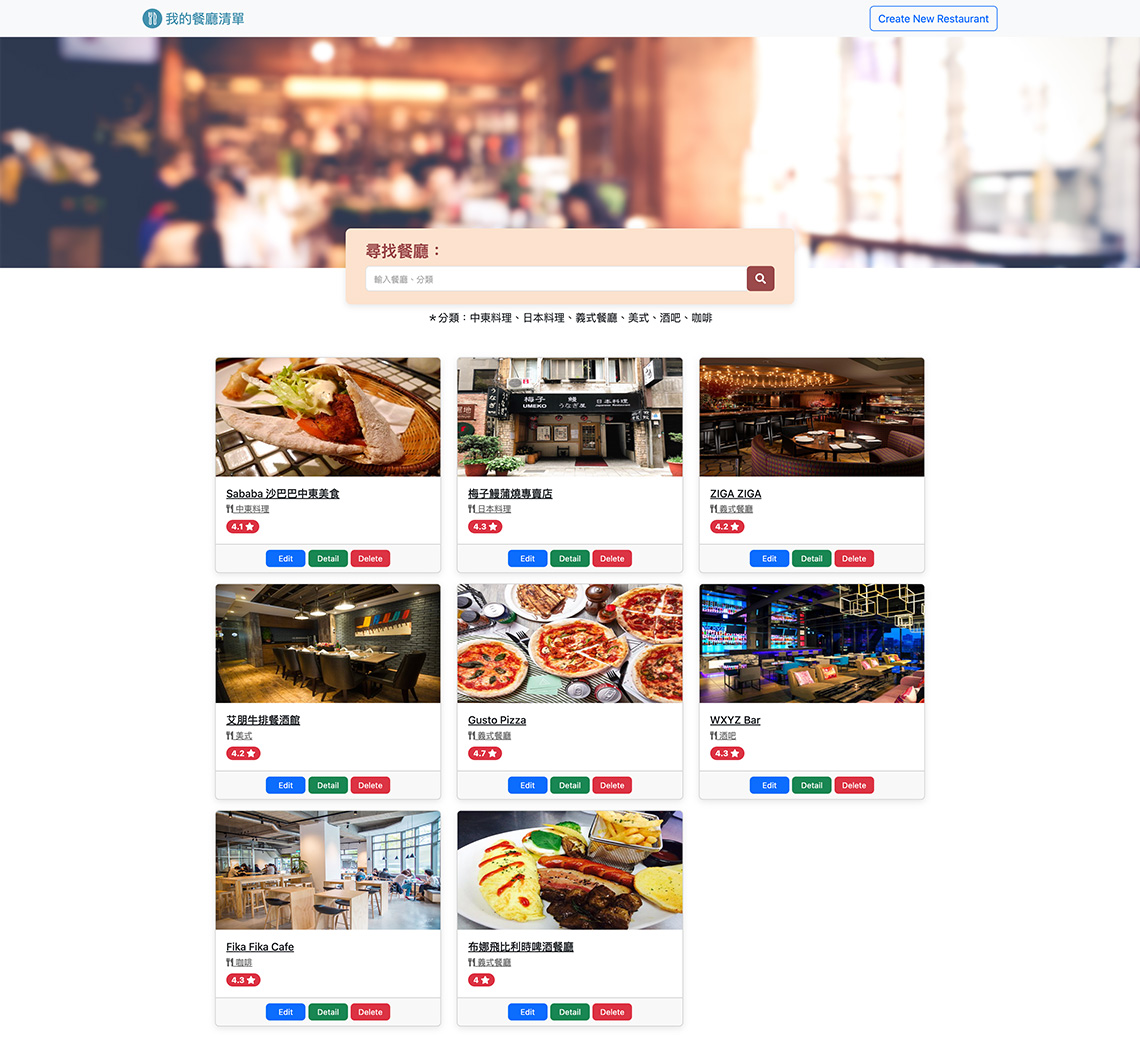
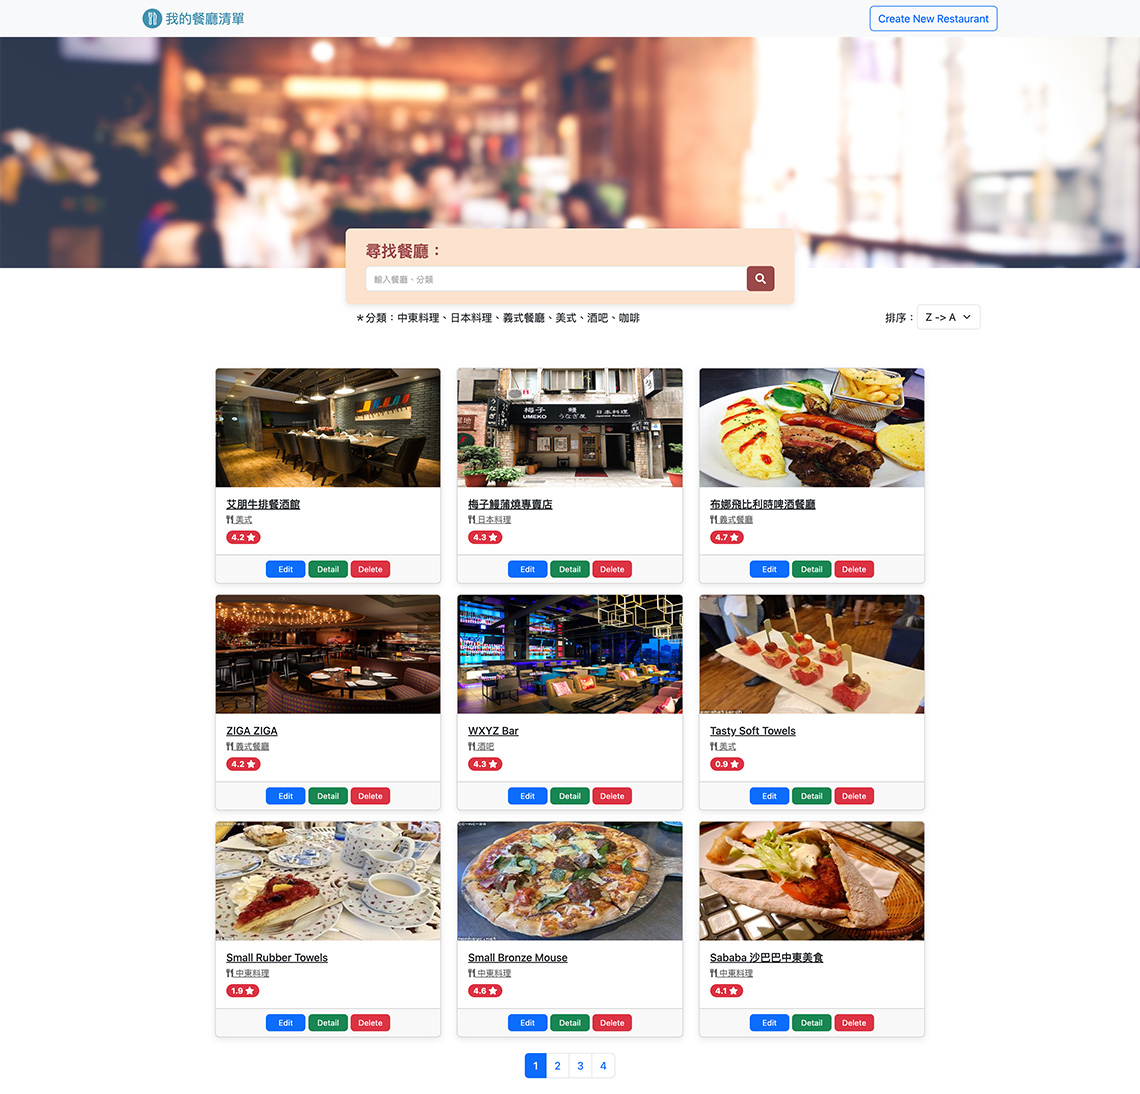
docs: update README.md

diff --git a/README.md b/README.md
@@ -4,8 +4,10 @@
 
 ## Features
 
--   Display all restaurants
+-   Display restaurants on multiple pages
 -   Search restaurants by name or category
+-   Order restaurants
+-   Flash messages
 -   Create a new restaurant
 -   Check restaurant information
 -   Edit restaurant information
@@ -42,15 +44,23 @@ npm install
 
 <br />
 
-4. Launch Mysql Server
+4. Create example environment configs
 
-Launch your mysql server, and edit environment config files in folder "env".<br />
-There are two config files in it, ".env.development.local" and ".env.production.local".<br />
-Change the "DB_MYSQL_USERNAME" and "DB_MYSQL_PASSWORD" to match your mysql server connection settings.
+```
+npm run env:create
+```
 
 <br />
 
-5. Create a new database and seed test data.
+5. Launch Mysql Server
+
+Launch your mysql server, and edit environment config files in folder "env".<br />
+There are two config files in it, ".env.development.local" and ".env.production.local".<br />
+Change the "DB_MYSQL_USERNAME", "DB_MYSQL_PASSWORD", "SESSION_SECRET" to match your mysql server connection settings.
+
+<br />
+
+6. Create a new database and seed test data.
 
 ```
 npm run db:create
@@ -59,7 +69,7 @@ npm run seed
 
 <br />
 
-6. Launch the application
+7. Launch the application
 
 Run app in development mode
 
